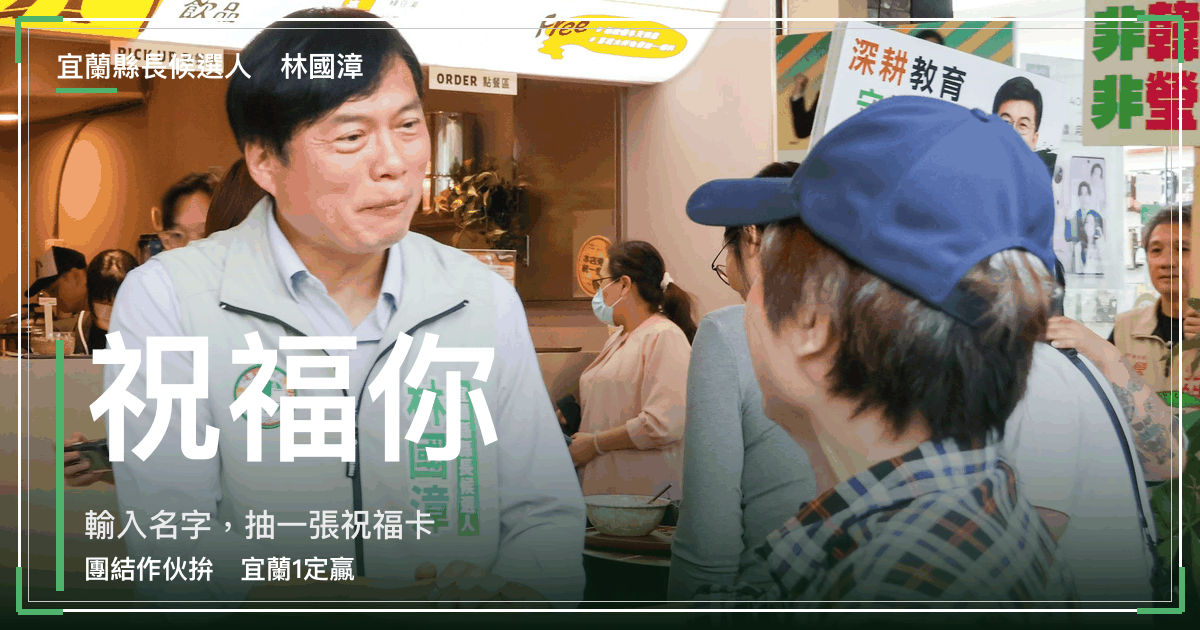
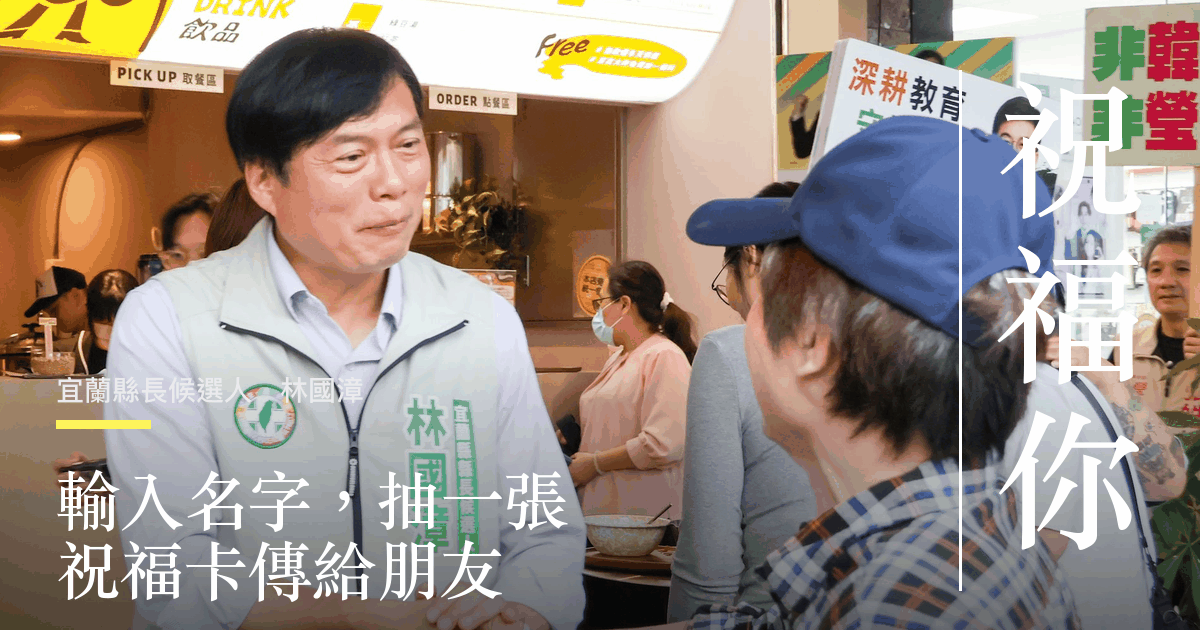
v57: blessing card in magazine style (vertical serif headline, big blessing lines)

diff --git a/index.html b/index.html
@@ -1995,7 +1995,7 @@ function showQuizResult(id0){
   OV.querySelector('[data-qzsee]').onclick=function(){ovClose();selectTown(id);try{window.scrollTo({top:0})}catch(x){}};
 }
 function openQuiz(){QS.i=0;QS.sc={};stat('quiz/start','測驗開始');showQuiz()}
-var BP=[['photos/b01.jpg',0.4],['photos/b02.jpg',0.42],['photos/b03.jpg',0.5],['photos/b05.jpg',0.4],['photos/b06.jpg',0.45],['photos/b07.jpg',0.5],['photos/b08.jpg',0.6],['photos/b09.jpg',0.45],['photos/b10.jpg',0.42],['photos/b11.jpg',0.55],['photos/b12.jpg',0.5],['photos/b13.jpg',0.47],['photos/b14.jpg',0.42],['photos/b15.jpg',0.52],['photos/b16.jpg',0.5]];
+var BP=[['photos/b01.jpg',0.44],['photos/b02.jpg',0.38],['photos/b03.jpg',0.59],['photos/b05.jpg',0.39],['photos/b06.jpg',0.36],['photos/b07.jpg',0.69],['photos/b08.jpg',0.63],['photos/b09.jpg',0.42],['photos/b10.jpg',0.44],['photos/b11.jpg',0.51],['photos/b12.jpg',0.54],['photos/b13.jpg',0.51],['photos/b14.jpg',0.42],['photos/b15.jpg',0.57],['photos/b16.jpg',0.51]];
 var BL=['平安順心，1定贏！','身體健康，天天開心','好運來，萬事1定贏','家庭和樂，事事順利','工作順利，荷包滿滿','團結作伙拚，宜蘭1定贏','笑口常開，好運跟著來','出門平安，回家溫暖','今天也加油，你1定贏','心想事成，天天精彩','願你有好山好水好心情','平安喜樂，家人安康','生意興隆，客人滿門','你的努力，宜蘭看得見','辛苦了，給你大大的讚','歲歲平安，年年有餘'];
 var BPI={},BS={p:-1,w:-1};
 function bpLoad(i,cb){
@@ -2020,41 +2020,44 @@ function stat(path,title){
   }catch(e){}
 })();
 function drawBlessCard(name,wish,img,fx){
-  var W=1080,H=1350,cv=cvNew(),c=cv.getContext('2d'),GRN='#4FB26D',L=84,BF='"Noto Sans TC",'+CV_F,BS='"Noto Serif TC",'+CV_S;
+  var W=1080,H=1350,cv=cvNew(),c=cv.getContext('2d'),SS='"Noto Serif TC",'+CV_S,SN='"Noto Sans TC",'+CV_F;
   function sp(v){if('letterSpacing' in c)c.letterSpacing=v}
   if(img){
     var sw=img.naturalWidth,sh=img.naturalHeight,r=W/H,cw=sw,ch=sh;
     if(sw/sh>r)cw=sh*r;else ch=sw/r;
     var sx=Math.max(0,Math.min(sw-cw,sw*(fx==null?.5:fx)-cw/2)),sy=Math.max(0,Math.min(sh-ch,sh*.3-ch/2));
     c.drawImage(img,sx,sy,cw,ch,0,0,W,H);
-  }else{
-    var bg=c.createLinearGradient(0,0,0,H);bg.addColorStop(0,'#2C8A4F');bg.addColorStop(1,'#145A32');c.fillStyle=bg;c.fillRect(0,0,W,H);
-  }
-  var g=c.createLinearGradient(0,620,0,H);g.addColorStop(0,'rgba(0,0,0,0)');g.addColorStop(.5,'rgba(5,25,12,.78)');g.addColorStop(1,'rgba(5,25,12,.94)');c.fillStyle=g;c.fillRect(0,620,W,H-620);
-  var t=c.createLinearGradient(0,0,0,200);t.addColorStop(0,'rgba(0,0,0,.5)');t.addColorStop(1,'rgba(0,0,0,0)');c.fillStyle=t;c.fillRect(0,0,W,200);
-  c.textBaseline='alphabetic';c.textAlign='left';
-  c.fillStyle='#fff';c.font='700 32px '+BF;sp('6px');c.fillText('宜蘭縣長候選人　林國漳',L,112);sp('0px');
-  c.fillStyle=GRN;c.fillRect(L,126,90,6);
-  c.strokeStyle='rgba(255,255,255,.95)';c.lineWidth=3;c.strokeRect(36,36,W-72,H-72);
-  c.strokeStyle='rgba(255,255,255,.55)';c.lineWidth=1.5;c.strokeRect(50,50,W-100,H-100);
-  c.strokeStyle=GRN;c.lineWidth=8;
-  [[36,36,1,1],[W-36,36,-1,1],[36,H-36,1,-1],[W-36,H-36,-1,-1]].forEach(function(p){c.beginPath();c.moveTo(p[0],p[1]+p[3]*70);c.lineTo(p[0],p[1]);c.lineTo(p[0]+p[2]*70,p[1]);c.stroke()});
-  c.fillStyle=GRN;c.fillRect(L,850,10,250);
-  c.fillStyle='rgba(255,255,255,.92)';c.font='900 54px '+BS;sp('14px');c.fillText('祝福',L+36,910);sp('0px');
-  var fs=156;
-  while(fs>56){c.font='900 '+fs+'px '+BS;if(c.measureText(name).width<=W-2*L-40)break;fs-=4}
-  c.fillStyle='#fff';c.fillText(name,L+30,1060);
-  c.fillStyle='rgba(255,255,255,.94)';c.font='700 56px '+BF;sp('3px');c.fillText(cvFit(c,wish,W-2*L-40),L+36,1160);sp('0px');
-  c.fillStyle='rgba(255,255,255,.35)';c.fillRect(L,1210,W-2*L,2);
-  c.fillStyle='#fff';c.font='700 30px '+BF;c.fillText(typeof SLOGAN==='string'&&SLOGAN?SLOGAN.replace(/\s+/g,'　'):'團結作伙拚　宜蘭1定贏',L,1262);
+  }else{c.fillStyle='#1B5E38';c.fillRect(0,0,W,H)}
+  var gr=c.createLinearGradient(W,0,W-560,0);gr.addColorStop(0,'rgba(0,0,0,.66)');gr.addColorStop(1,'rgba(0,0,0,0)');c.fillStyle=gr;c.fillRect(W-560,0,560,H);
+  var gb=c.createLinearGradient(0,760,0,H);gb.addColorStop(0,'rgba(0,0,0,0)');gb.addColorStop(.45,'rgba(0,0,0,.55)');gb.addColorStop(1,'rgba(0,0,0,.82)');c.fillStyle=gb;c.fillRect(0,760,W,H-760);
+  c.textBaseline='alphabetic';
+  // vertical 「祝福 + name」
+  var chars=('祝福'+name).split(''),n=chars.length,sz=Math.min(168,Math.floor(940/n/1.12)),step=sz*1.12,x=W-148,y0=130+sz*.86;
+  c.save();c.textAlign='center';c.fillStyle='#fff';c.font='900 '+sz+'px '+SS;c.shadowColor='rgba(0,0,0,.5)';c.shadowBlur=26;c.shadowOffsetY=6;
+  chars.forEach(function(ch,i){c.fillText(ch,x,y0+i*step)});c.restore();
+  c.fillStyle='rgba(255,255,255,.9)';c.fillRect(x-sz*.5-26,118,3,Math.min(960,n*step+30));
+  // blessing: main focus, big, up to two lines (split at the comma when there is one)
+  var parts=wish.split(/[，,、]/).filter(Boolean),lines;
+  c.font='900 96px '+SS;
+  if(parts.length>=2&&parts.length<=2)lines=parts;
+  else if(wish.length>7){var hm=Math.ceil(wish.length/2);lines=[wish.slice(0,hm),wish.slice(hm)]}
+  else lines=[wish];
+  var fs=96;
+  while(fs>56){c.font='900 '+fs+'px '+SS;var ok=lines.every(function(s){return c.measureText(s).width<=W-420});if(ok)break;fs-=4}
+  var base=1200-(lines.length-1)*(fs+14);
+  c.fillStyle='#FFD36B';c.fillRect(70,base-fs-34,96,8);
+  c.save();c.fillStyle='#fff';c.font='900 '+fs+'px '+SS;sp('4px');c.shadowColor='rgba(0,0,0,.45)';c.shadowBlur=18;c.shadowOffsetY=4;
+  lines.forEach(function(s,i){c.fillText(s,70,base+i*(fs+14))});c.restore();sp('0px');
+  c.fillStyle='rgba(255,255,255,.88)';c.font='700 30px '+SN;sp('5px');c.fillText('宜蘭縣長候選人　林國漳',70,1286);sp('0px');
   return cv;
 }
+function sp2(c,v){if('letterSpacing' in c)c.letterSpacing=v}
 function fontReady(txt,cb){
   var done=false;function fin(){if(!done){done=true;cb()}}
   try{
     if(!document.fonts||!document.fonts.load){fin();return}
     setTimeout(fin,3500);
-    Promise.all([document.fonts.load('900 60px "Noto Serif TC"',txt),document.fonts.load('700 40px "Noto Sans TC"',txt+'宜蘭縣長候選人林國漳團結作伙拚定贏')]).then(fin,fin);
+    Promise.all([document.fonts.load('900 60px "Noto Serif TC"',txt),document.fonts.load('700 40px "Noto Sans TC"','宜蘭縣長候選人林國漳')]).then(fin,fin);
   }catch(e){fin()}
 }
 function blGen(nm,w){
@@ -2128,7 +2131,7 @@ function drawWallCard(){
   return cv;
 }
 function openWallCard(){openImg(drawWallCard(),'林國漳政見重點數字｜林國漳政見地圖',SHARE_BASE||location.href.split('#')[0],'林國漳-重點數字.png')}
-var BUILD='10/28 第 55 版';
+var BUILD='10/28 第 57 版';
 (function(){var bp=document.querySelector('.brand p');if(bp)bp.insertAdjacentHTML('beforeend','<br><small style="opacity:.65">更新 '+BUILD+'</small>')})();
 var XL=false;try{XL=localStorage.getItem('xl')==='1'}catch(e){}
 if(/[?&]xl=1/.test(location.search))XL=true;
